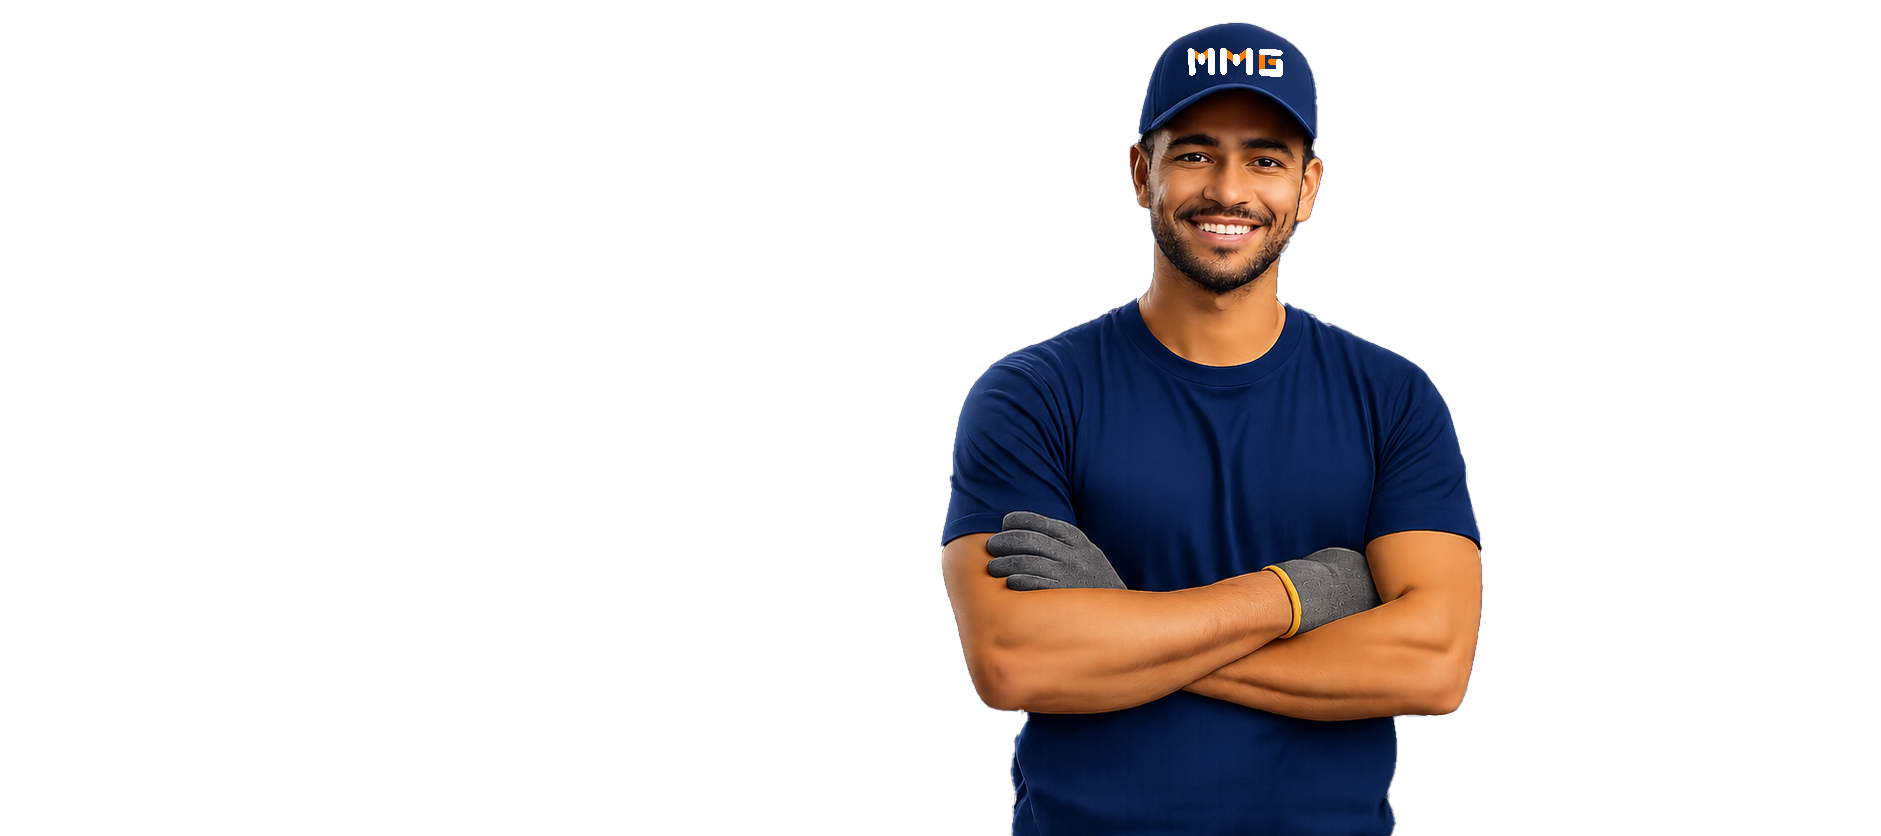
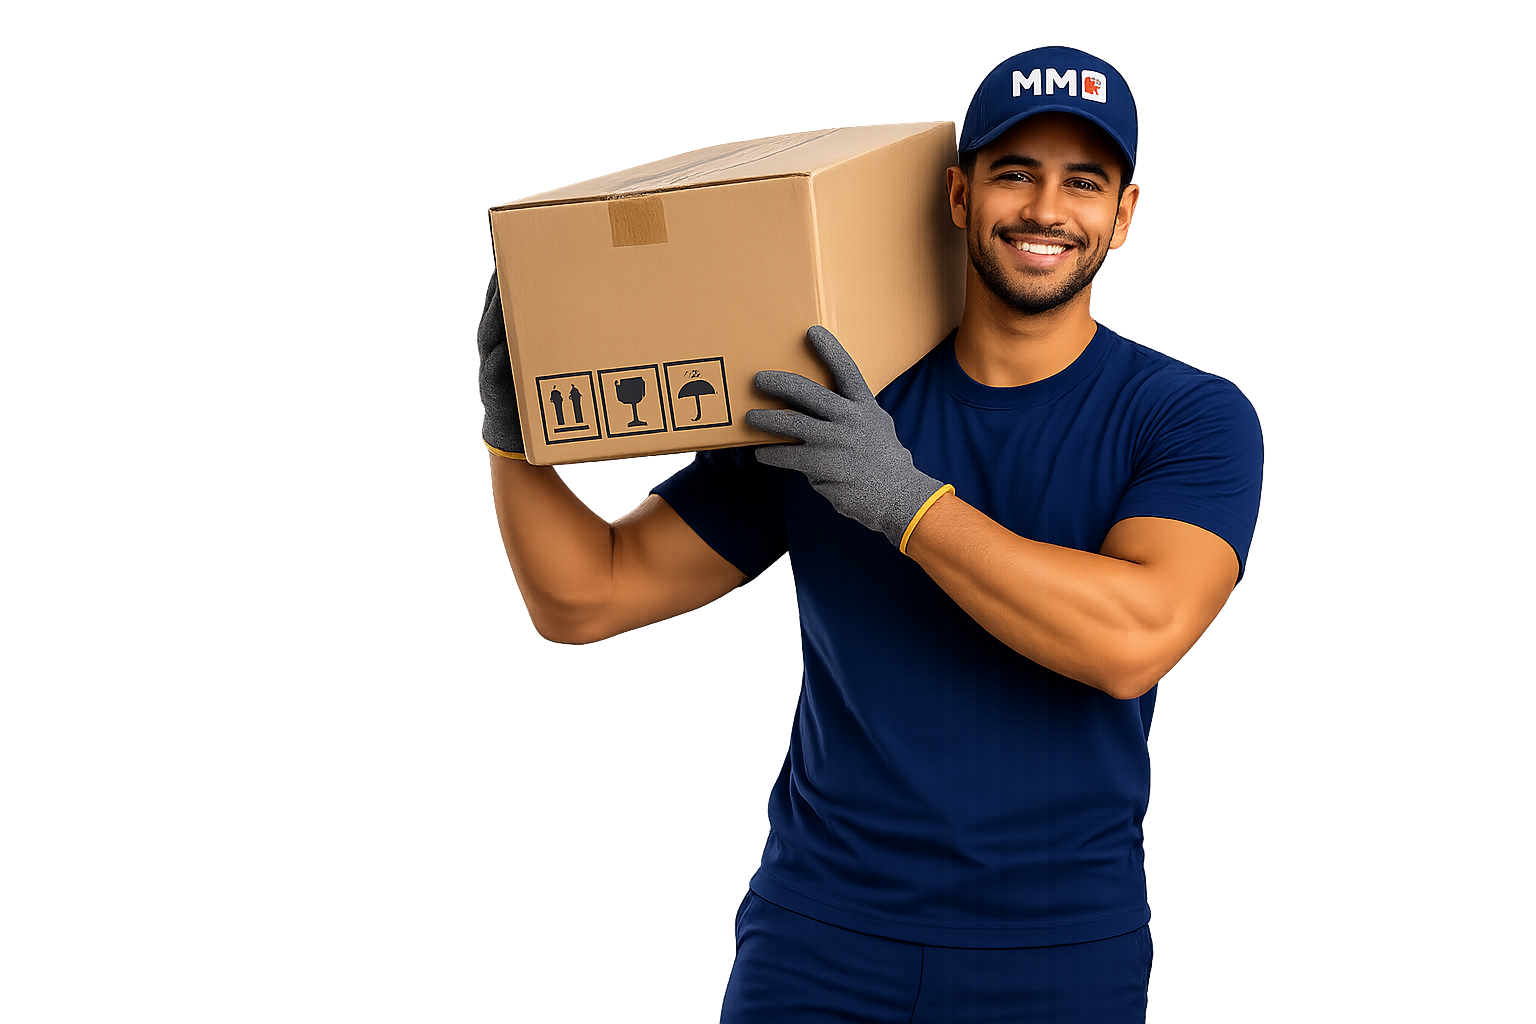
att

Changed region(s): [[0.3125, 0.0311, 0.8438, 1.0], [0.625, 0.9641, 0.6562, 0.9952]]

diff --git a/index.html b/index.html
@@ -29,6 +29,17 @@
   .eyebrow{ display:inline-flex; align-items:center; gap:8px; font-size:var(--mmg-text-sm); font-weight:600; letter-spacing:.12em; text-transform:uppercase; }
   .eyebrow .dot{ width:7px; height:7px; border-radius:50%; background:var(--mmg-orange-500); flex-shrink:0; }
 
+
+.logo{ display:flex; align-items:center; gap:14px; }
+.logo p{
+  font-family:var(--mmg-font-display);
+  font-size:var(--mmg-text-sm);
+  font-weight:600;
+  color:var(--mmg-orange-500);
+  line-height:1.3;
+  margin:0;
+}
+@media(max-width:768px){ .logo p{ display:none; } }
   /* NAV */
   .nav{ position:sticky; top:0; z-index:50; background:#FFFFFF; backdrop-filter:blur(10px); border-bottom:1px solid var(--mmg-navy-600); }
   .nav .wrap{ display:flex; align-items:center; justify-content:space-between; height:66px; }
@@ -300,6 +311,7 @@
   <div class="wrap">
     <a href="#topo" class="logo" aria-label="MMG — página inicial">
       <img src="assets/mmg-mark.png" height="32" alt="MMG" width="98">
+        <p>Movimentação de Mercadorias em Geral · Desde 1975</p>
     </a>
     <nav class="navlinks">
       <a href="#servicos">Serviços</a>
@@ -320,7 +332,6 @@
 
   <div class="wrap">
     <div class="hero-copy">
-      <span class="eyebrow"><span class="dot"></span> Movimentação de Mercadorias em Geral · Desde 1975 </span>
       <h1>A gente move o que a sua empresa precisa entregar.</h1>
       <p>Intermediação de mão de obra avulsa — sem vínculo empregatício — em Campo Mourão e região. Profissionais qualificados do recebimento à expedição, com rapidez, agilidade e redução de custos operacionais.</p>
       <div class="cta">
